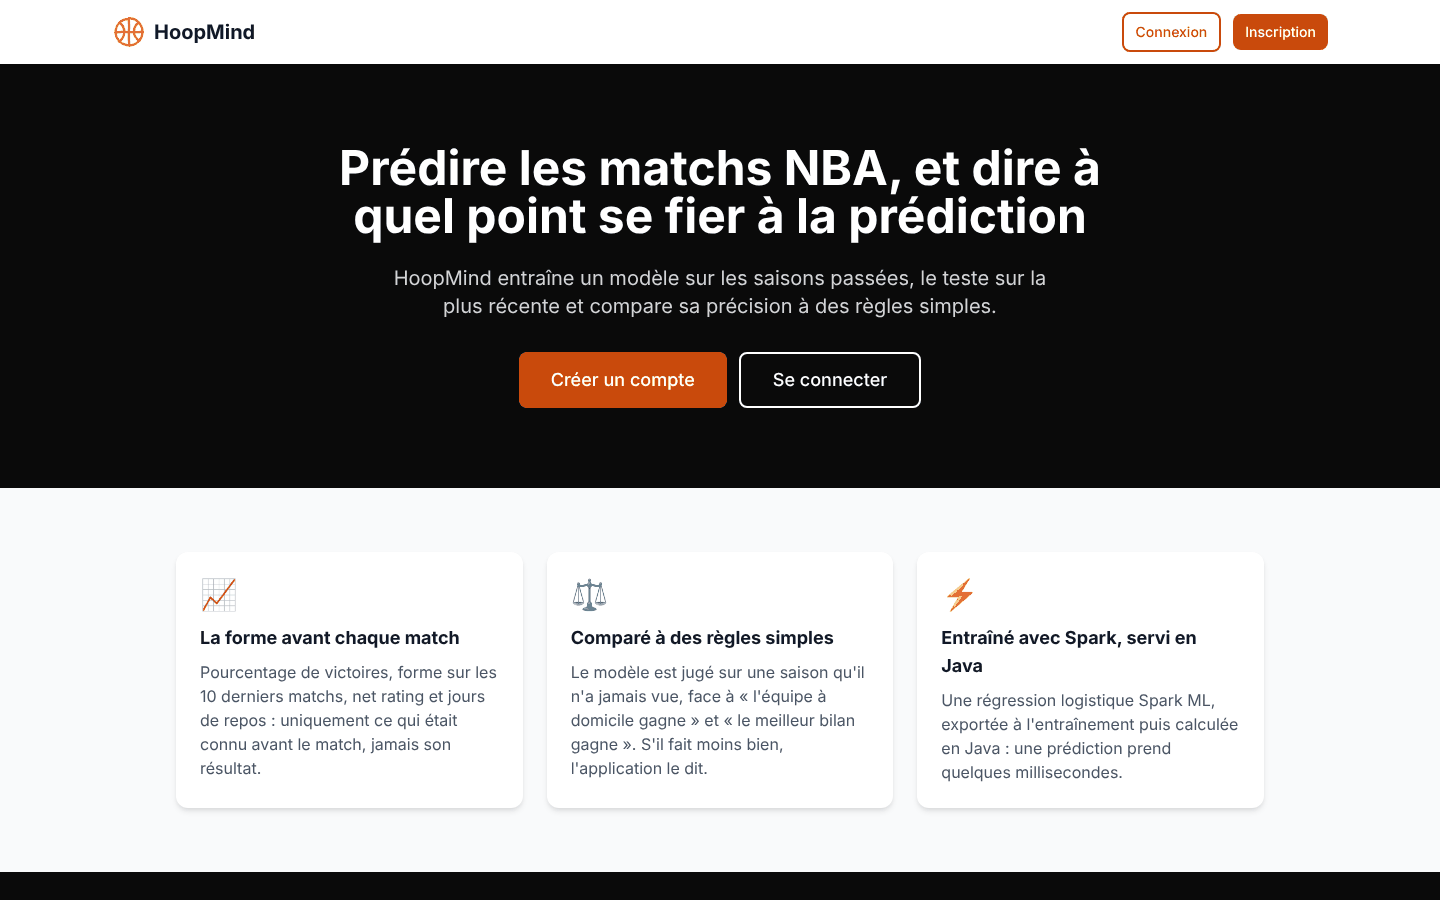
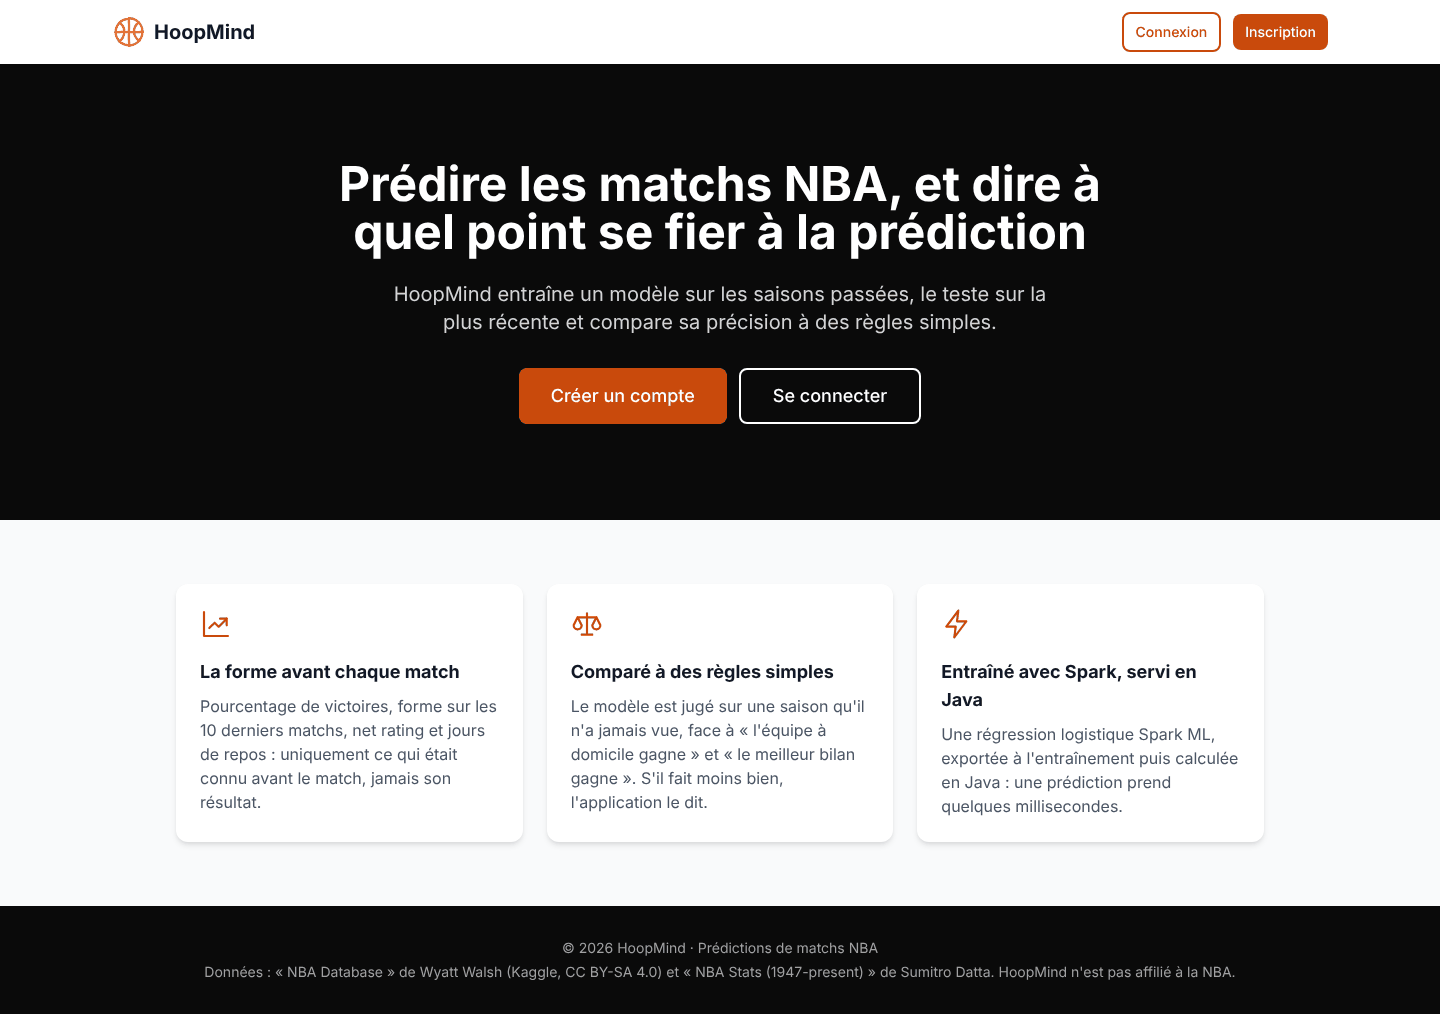
Accueil avec « The Last Shot », retour depuis la connexion, icônes au trait
- Bandeau de l'accueil : photo de Michael Jordan (finale 1998) par lien, 35 % d'opacité, crédit
- Connexion et inscription : lien « Retour à l'accueil », logo toujours visible sur la carte, logos cliquables
- Émojis remplacés par des icônes au trait (app-icon) : accueil, tableau de bord admin, page Données

Claude-Session: https://claude.ai/code/session_01CMdKo38seG4JHvFAH3Ms44

diff --git a/frontend/src/app/features/home/home.component.html b/frontend/src/app/features/home/home.component.html
@@ -1,8 +1,16 @@
 <div class="flex min-h-screen flex-col bg-gray-50">
   <app-navbar />
 
-  <section class="bg-neutral-950 py-16 text-white sm:py-20">
-    <div class="mx-auto max-w-4xl px-4 text-center sm:px-6">
+  <section class="relative overflow-hidden bg-neutral-950 py-16 text-white sm:py-24">
+    @if (!photoMissing()) {
+      <img [src]="photo.src" alt="" aria-hidden="true" referrerpolicy="no-referrer"
+           class="absolute inset-0 h-full w-full object-cover object-[center_30%] opacity-35 grayscale-[30%]"
+           (error)="photoMissing.set(true)" />
+      <div class="absolute inset-0 bg-gradient-to-b from-neutral-950/60 via-neutral-950/40 to-neutral-950/80"></div>
+      <a [href]="photo.page" target="_blank" rel="noopener"
+         class="absolute bottom-2 right-3 text-xs text-neutral-500 underline hover:text-neutral-300">Photo : « The Last Shot », 1998</a>
+    }
+    <div class="relative mx-auto max-w-4xl px-4 text-center sm:px-6">
       <h1 class="text-4xl font-bold sm:text-5xl">Prédire les matchs NBA, et dire à quel point se fier à la prédiction</h1>
       <p class="mx-auto mt-6 max-w-2xl text-lg text-neutral-300 sm:text-xl">
         HoopMind entraîne un modèle sur les saisons passées, le teste sur la plus récente et compare sa précision à des règles simples.
@@ -21,21 +29,21 @@
   <section class="py-16">
     <div class="mx-auto grid max-w-6xl grid-cols-1 gap-6 px-4 sm:px-6 md:grid-cols-3 lg:px-8">
       <article class="card">
-        <span class="text-3xl" aria-hidden="true">📈</span>
+        <app-icon name="trend" [size]="32" class="text-primary-600" />
         <h2 class="mt-3 text-lg font-bold">La forme avant chaque match</h2>
         <p class="mt-2 text-gray-600">
           Pourcentage de victoires, forme sur les 10 derniers matchs, net rating et jours de repos : uniquement ce qui était connu avant le match, jamais son résultat.
         </p>
       </article>
       <article class="card">
-        <span class="text-3xl" aria-hidden="true">⚖</span>
+        <app-icon name="scale" [size]="32" class="text-primary-600" />
         <h2 class="mt-3 text-lg font-bold">Comparé à des règles simples</h2>
         <p class="mt-2 text-gray-600">
           Le modèle est jugé sur une saison qu'il n'a jamais vue, face à « l'équipe à domicile gagne » et « le meilleur bilan gagne ». S'il fait moins bien, l'application le dit.
         </p>
       </article>
       <article class="card">
-        <span class="text-3xl" aria-hidden="true">⚡</span>
+        <app-icon name="bolt" [size]="32" class="text-primary-600" />
         <h2 class="mt-3 text-lg font-bold">Entraîné avec Spark, servi en Java</h2>
         <p class="mt-2 text-gray-600">
           Une régression logistique Spark ML, exportée à l'entraînement puis calculée en Java : une prédiction prend quelques millisecondes.

diff --git a/frontend/src/app/features/auth/auth-layout.component.ts b/frontend/src/app/features/auth/auth-layout.component.ts
@@ -1,5 +1,7 @@
 import { ChangeDetectionStrategy, Component, input, signal } from '@angular/core';
+import { RouterLink } from '@angular/router';
 
+import { IconComponent } from '../../shared/components/icon/icon.component';
 import { LogoComponent } from '../../shared/components/logo/logo.component';
 
 /** Photo du panneau gauche : Kobe Bryant au dunk, chargée depuis Wikimedia Commons (aucune copie dans le dépôt). */
@@ -15,7 +17,7 @@ const HERO_PHOTO = {
  */
 @Component({
   selector: 'app-auth-layout',
-  imports: [LogoComponent],
+  imports: [RouterLink, IconComponent, LogoComponent],
   changeDetection: ChangeDetectionStrategy.OnPush,
   template: `
     <div class="flex min-h-screen bg-neutral-950 lg:bg-gray-50">
@@ -27,10 +29,10 @@ const HERO_PHOTO = {
           <div class="absolute inset-0 bg-gradient-to-t from-neutral-950 via-neutral-950/40 to-neutral-950/70"></div>
         }
 
-        <div class="relative flex items-center gap-3">
+        <a routerLink="/" class="relative flex w-fit items-center gap-3">
           <app-logo [size]="40" />
           <span class="text-2xl font-bold">HoopMind</span>
-        </div>
+        </a>
         <div class="relative max-w-md">
           <p class="text-3xl font-bold leading-tight">Prédire les matchs NBA, et savoir à quel point s'y fier.</p>
           <p class="mt-3 text-neutral-400">Un modèle Spark ML évalué face à des règles simples, expliqué en langage clair.</p>
@@ -42,10 +44,17 @@ const HERO_PHOTO = {
         </div>
       </aside>
 
-      <main class="flex flex-1 items-center justify-center px-4 py-12">
+      <main class="flex flex-1 flex-col items-center justify-center px-4 py-12">
+        <div class="w-full max-w-md">
+          <a routerLink="/" class="mb-4 inline-flex items-center gap-2 text-sm font-medium text-neutral-300 hover:text-white lg:text-gray-600 lg:hover:text-gray-900">
+            <app-icon name="arrow-left" [size]="18" /> Retour à l'accueil
+          </a>
+        </div>
         <div class="w-full max-w-md rounded-2xl bg-white p-8 shadow-2xl lg:shadow-xl">
           <div class="mb-8 text-center">
-            <app-logo class="mx-auto mb-4 lg:hidden" [size]="56" />
+            <a routerLink="/" class="mx-auto mb-4 flex w-fit" aria-label="Accueil HoopMind">
+              <app-logo [size]="56" />
+            </a>
             <h1 class="text-3xl font-bold text-gray-900">{{ heading() }}</h1>
             <p class="mt-2 text-gray-600">{{ subheading() }}</p>
           </div>

diff --git a/frontend/src/app/shared/components/icon/icon.component.ts b/frontend/src/app/shared/components/icon/icon.component.ts
@@ -1,0 +1,58 @@
+import { ChangeDetectionStrategy, Component, input } from '@angular/core';
+
+/** Icônes disponibles, toutes dessinées au trait (contours) dans un repère 24 × 24. */
+export type IconName = 'arrow-left' | 'trend' | 'scale' | 'bolt' | 'users' | 'database' | 'target' | 'folder';
+
+/**
+ * Icône au trait, couleur héritée (`currentColor`). Décorative : le texte voisin porte toujours le sens.
+ * Remplace les émojis, dont le rendu change d'un système à l'autre.
+ */
+@Component({
+  selector: 'app-icon',
+  template: `
+    <svg viewBox="0 0 24 24" fill="none" stroke="currentColor" stroke-width="1.6" stroke-linecap="round"
+         stroke-linejoin="round" aria-hidden="true" focusable="false" [attr.width]="size()" [attr.height]="size()">
+      @switch (name()) {
+        @case ('arrow-left') {
+          <path d="M19 12H5M11 6l-6 6 6 6" />
+        }
+        @case ('trend') {
+          <path d="M3 3v18h18" />
+          <path d="M7 15l4-4 3 3 6-6" />
+          <path d="M15 8h5v5" />
+        }
+        @case ('scale') {
+          <path d="M12 4v16M8 20h8M5 7h14" />
+          <path d="M5 7l-3 6a3 3 0 0 0 6 0L5 7zM19 7l-3 6a3 3 0 0 0 6 0l-3-6z" />
+        }
+        @case ('bolt') {
+          <path d="M13 2L4 14h7l-1 8 9-12h-7l1-8z" />
+        }
+        @case ('users') {
+          <circle cx="9" cy="8" r="3.5" />
+          <path d="M2.5 20a6.5 6.5 0 0 1 13 0" />
+          <path d="M16 4.6a3.5 3.5 0 0 1 0 6.8M18.5 14.2A6.5 6.5 0 0 1 21.5 20" />
+        }
+        @case ('database') {
+          <ellipse cx="12" cy="5.5" rx="8" ry="3" />
+          <path d="M4 5.5v13c0 1.7 3.6 3 8 3s8-1.3 8-3v-13" />
+          <path d="M4 12c0 1.7 3.6 3 8 3s8-1.3 8-3" />
+        }
+        @case ('target') {
+          <circle cx="12" cy="12" r="9" />
+          <circle cx="12" cy="12" r="5" />
+          <circle cx="12" cy="12" r="1" />
+        }
+        @case ('folder') {
+          <path d="M3 6.5A1.5 1.5 0 0 1 4.5 5h4.3l2 2.5h8.7A1.5 1.5 0 0 1 21 9v9.5a1.5 1.5 0 0 1-1.5 1.5h-15A1.5 1.5 0 0 1 3 18.5z" />
+        }
+      }
+    </svg>
+  `,
+  host: { class: 'inline-flex shrink-0' },
+  changeDetection: ChangeDetectionStrategy.OnPush,
+})
+export class IconComponent {
+  readonly name = input.required<IconName>();
+  readonly size = input(24);
+}

diff --git a/frontend/src/app/features/admin/admin-dashboard/admin-dashboard.component.html b/frontend/src/app/features/admin/admin-dashboard/admin-dashboard.component.html
@@ -9,7 +9,7 @@
 
     <div class="grid grid-cols-1 gap-6 md:grid-cols-3">
       <a routerLink="/admin/users" class="card block hover:ring-2 hover:ring-primary-500">
-        <h2 class="flex items-center justify-between text-lg font-bold">Utilisateurs <span aria-hidden="true">👥</span></h2>
+        <h2 class="flex items-center justify-between text-lg font-bold">Utilisateurs <app-icon name="users" class="text-primary-600" /></h2>
         <p class="mt-3 text-3xl font-bold">
           @if (userCount() !== null) { {{ userCount() | number }} } @else if (users.error()) { — } @else { … }
         </p>
@@ -17,7 +17,7 @@
       </a>
 
       <a routerLink="/admin/data" class="card block hover:ring-2 hover:ring-primary-500">
-        <h2 class="flex items-center justify-between text-lg font-bold">Données <span aria-hidden="true">🗄</span></h2>
+        <h2 class="flex items-center justify-between text-lg font-bold">Données <app-icon name="database" class="text-primary-600" /></h2>
         @if (lastImport(); as job) {
           <p class="mt-3 font-medium">{{ phaseLabel(job.phase) }}</p>
           <p class="mt-1 text-sm text-gray-600">
@@ -35,7 +35,7 @@
       </a>
 
       <a routerLink="/admin/data" fragment="model-title" class="card block hover:ring-2 hover:ring-primary-500">
-        <h2 class="flex items-center justify-between text-lg font-bold">Modèle <span aria-hidden="true">🎯</span></h2>
+        <h2 class="flex items-center justify-between text-lg font-bold">Modèle <app-icon name="target" class="text-primary-600" /></h2>
         @if (currentValue(model); as report) {
           <p class="mt-3 text-3xl font-bold">{{ report.accuracy | percent: '1.0-0' }}</p>
           <p class="mt-1 text-sm text-gray-600">de précision sur {{ report.testSeason }}, entraîné le {{ report.trainedAt | date: 'short' }}.</p>

diff --git a/frontend/src/app/features/home/home.component.ts b/frontend/src/app/features/home/home.component.ts
@@ -1,17 +1,27 @@
-import { ChangeDetectionStrategy, Component, inject } from '@angular/core';
+import { ChangeDetectionStrategy, Component, inject, signal } from '@angular/core';
 import { RouterLink } from '@angular/router';
 
 import { AuthService } from '../../core/auth/auth.service';
 import { NavbarComponent } from '../../shared/components/navbar/navbar.component';
 import { FooterComponent } from '../../shared/components/footer/footer.component';
+import { IconComponent } from '../../shared/components/icon/icon.component';
+
+/** Photo du bandeau : « The Last Shot » de Michael Jordan (finale 1998), chargée par lien (aucune copie dans le dépôt). */
+const HERO_PHOTO = {
+  src: 'https://www.michaeljordansworld.com/pictures/images/michael_jordan_bulls_last_shot.jpg',
+  page: 'https://www.michaeljordansworld.com/pictures/michael_jordan_bulls_last_shot.htm',
+};
 
 /** Page d'accueil publique : ce que fait HoopMind, sans appel à l'API (un visiteur n'a pas accès aux données). */
 @Component({
   selector: 'app-home',
-  imports: [RouterLink, NavbarComponent, FooterComponent],
+  imports: [RouterLink, NavbarComponent, FooterComponent, IconComponent],
   templateUrl: './home.component.html',
   changeDetection: ChangeDetectionStrategy.OnPush,
 })
 export class HomeComponent {
   protected readonly auth = inject(AuthService);
+  protected readonly photo = HERO_PHOTO;
+  /** Hors ligne ou lien cassé : le bandeau reste noir, sans crédit. */
+  protected readonly photoMissing = signal(false);
 }

diff --git a/frontend/src/app/features/admin/admin-dashboard/admin-dashboard.component.ts b/frontend/src/app/features/admin/admin-dashboard/admin-dashboard.component.ts
@@ -13,6 +13,7 @@ import { currentValue } from '../../../core/util/resource';
 import { NavbarComponent } from '../../../shared/components/navbar/navbar.component';
 import { AUDIT_ACTION_LABELS } from '../audit/audit-labels';
 import { gainOverBaseline, phaseLabel } from '../data/data-labels';
+import { IconComponent } from '../../../shared/components/icon/icon.component';
 
 /**
  * Tableau de bord de l'administration : un chiffre réel par rubrique (comptes, données, modèle, journal) et un lien
@@ -20,7 +21,7 @@ import { gainOverBaseline, phaseLabel } from '../data/data-labels';
  */
 @Component({
   selector: 'app-admin-dashboard',
-  imports: [DatePipe, DecimalPipe, PercentPipe, RouterLink, NavbarComponent],
+  imports: [DatePipe, DecimalPipe, PercentPipe, RouterLink, NavbarComponent, IconComponent],
   templateUrl: './admin-dashboard.component.html',
   changeDetection: ChangeDetectionStrategy.OnPush,
 })

diff --git a/frontend/src/app/features/admin/data/admin-data.component.html b/frontend/src/app/features/admin/data/admin-data.component.html
@@ -261,7 +261,7 @@
       <label class="flex cursor-pointer flex-col items-center justify-center gap-2 rounded-xl border-2 border-dashed p-8 text-center transition-colors focus-within:ring-2 focus-within:ring-primary-500 focus-within:ring-offset-2"
              [class.border-primary-500]="dragging()" [class.bg-primary-50]="dragging()" [class.border-gray-300]="!dragging()"
              (dragover)="onDragOver($event)" (dragleave)="dragging.set(false)" (drop)="onDrop($event)">
-        <span class="text-3xl" aria-hidden="true">📂</span>
+        <app-icon name="folder" [size]="36" class="text-gray-500" />
         <span class="font-medium">Glissez le zip ou les CSV ici, ou cliquez pour les choisir</span>
         <span class="text-xs text-gray-500">.zip ou .csv</span>
         <input type="file" class="sr-only" multiple accept=".zip,.csv" (change)="onFilesSelected($any($event.target))" />

diff --git a/frontend/src/app/features/admin/data/admin-data.component.ts b/frontend/src/app/features/admin/data/admin-data.component.ts
@@ -20,6 +20,7 @@ import { toProblem } from '../../../core/http/problem';
 import { pollWhile } from '../../../core/util/poll';
 import { currentValue } from '../../../core/util/resource';
 import { NavbarComponent } from '../../../shared/components/navbar/navbar.component';
+import { IconComponent } from '../../../shared/components/icon/icon.component';
 import {
   downloadPercent,
   eoinMoorePhaseLabel,
@@ -54,7 +55,7 @@ const MAX_IMPORT_SEASONS = 80;
  */
 @Component({
   selector: 'app-admin-data',
-  imports: [DatePipe, DecimalPipe, PercentPipe, NavbarComponent],
+  imports: [DatePipe, DecimalPipe, PercentPipe, NavbarComponent, IconComponent],
   templateUrl: './admin-data.component.html',
   changeDetection: ChangeDetectionStrategy.OnPush,
 })

diff --git a/frontend/docs/adr/0011-identite-orange.md b/frontend/docs/adr/0011-identite-orange.md
@@ -22,6 +22,12 @@ dégradé bleu, ne disait rien du projet.
 - **Photo par lien** : l'image est chargée depuis Wikimedia Commons (`Special:FilePath`, qui suit les
   renommages), avec un crédit cliquable vers sa page. Rien n'est copié dans le dépôt. Si elle ne charge pas, le
   panneau reste noir.
+- **Accueil** : le bandeau noir porte « The Last Shot » de Michael Jordan (finale 1998), chargée par lien de la
+  même façon, à 35 % d'opacité, avec un crédit cliquable.
+- **Retour à l'accueil** depuis la connexion et l'inscription : un lien « Retour à l'accueil » au-dessus de la carte,
+  et le logo (sur la carte et sur le panneau) mène aussi à l'accueil.
+- **Icônes au trait** (`app-icon`) à la place des émojis (accueil, tableau de bord admin, page Données) : même rendu
+  sur tous les systèmes, couleur de la palette.
 
 ## Alternatives écartées
 
@@ -34,7 +40,7 @@ dégradé bleu, ne disait rien du projet.
 
 - **+** Une identité reconnaissable, cohérente du favicon au pied de page.
 - **+** Changer de teinte plus tard ne touche que `styles.css`.
-- **−** La page de connexion dépend de Wikimedia pour sa photo : hors ligne ou si le fichier disparaît, le panneau
+- **−** L'accueil et la connexion dépendent de sites tiers pour leurs photos : hors ligne ou si le fichier disparaît, le panneau
   reste noir (la connexion fonctionne normalement).
-- **−** La photo montre une personne réelle : acceptable pour une démonstration non commerciale, à remplacer pour
+- **−** Les photos montrent des personnes réelles et ne sont pas sous licence libre pour celle de Jordan : acceptable pour une démonstration non commerciale, à remplacer pour
   un usage commercial.

diff --git a/frontend/README.md b/frontend/README.md
@@ -19,11 +19,11 @@ npm start          # http://localhost:4200, /api est relayé vers le backend (pr
 | `npm run api:generate` | régénère le client API depuis `openapi/hoopmind-api.json` (lancé automatiquement avant `start`, `build` et `test`) |
 | `npm run api:update` | récupère la spécification du backend local puis régénère le client (`HOOPMIND_ADMIN_PASSWORD` requis) |
 
-### Photo de la page de connexion
+### Photos de l'accueil et de la connexion
 
-Le panneau gauche de la connexion affiche une photo de Kobe Bryant chargée depuis Wikimedia Commons (lien dans
-`auth-layout.component.ts`, constante `HERO_PHOTO`) : aucune image n'est copiée dans le dépôt. Si elle ne charge
-pas, le panneau reste noir.
+Le bandeau de l'accueil (« The Last Shot » de Michael Jordan) et le panneau gauche de la connexion (Kobe Bryant,
+Wikimedia Commons) chargent leur photo par lien : constante `HERO_PHOTO` dans `home.component.ts` et
+`auth-layout.component.ts`. Aucune image n'est copiée dans le dépôt ; si une photo ne charge pas, le fond reste noir.
 
 ## Architecture
 
